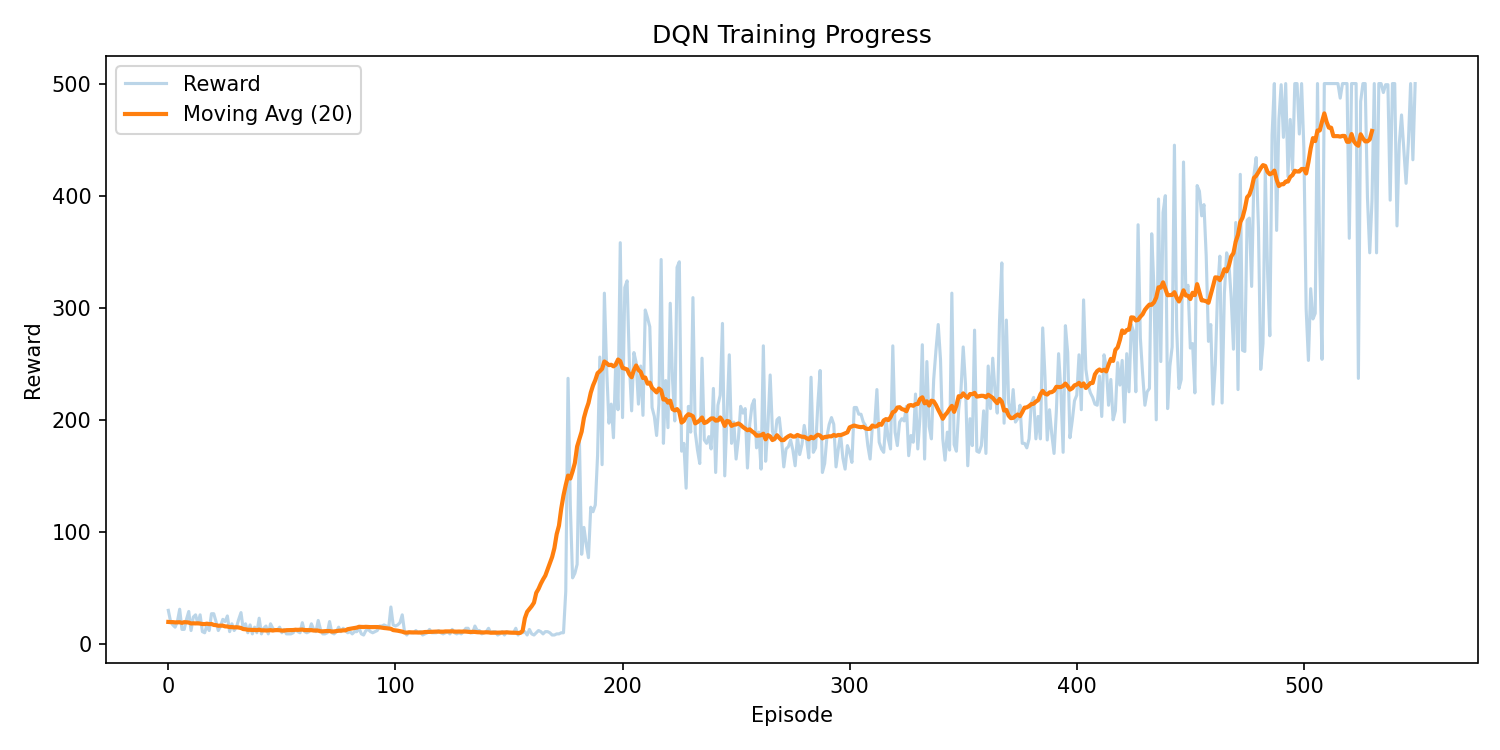
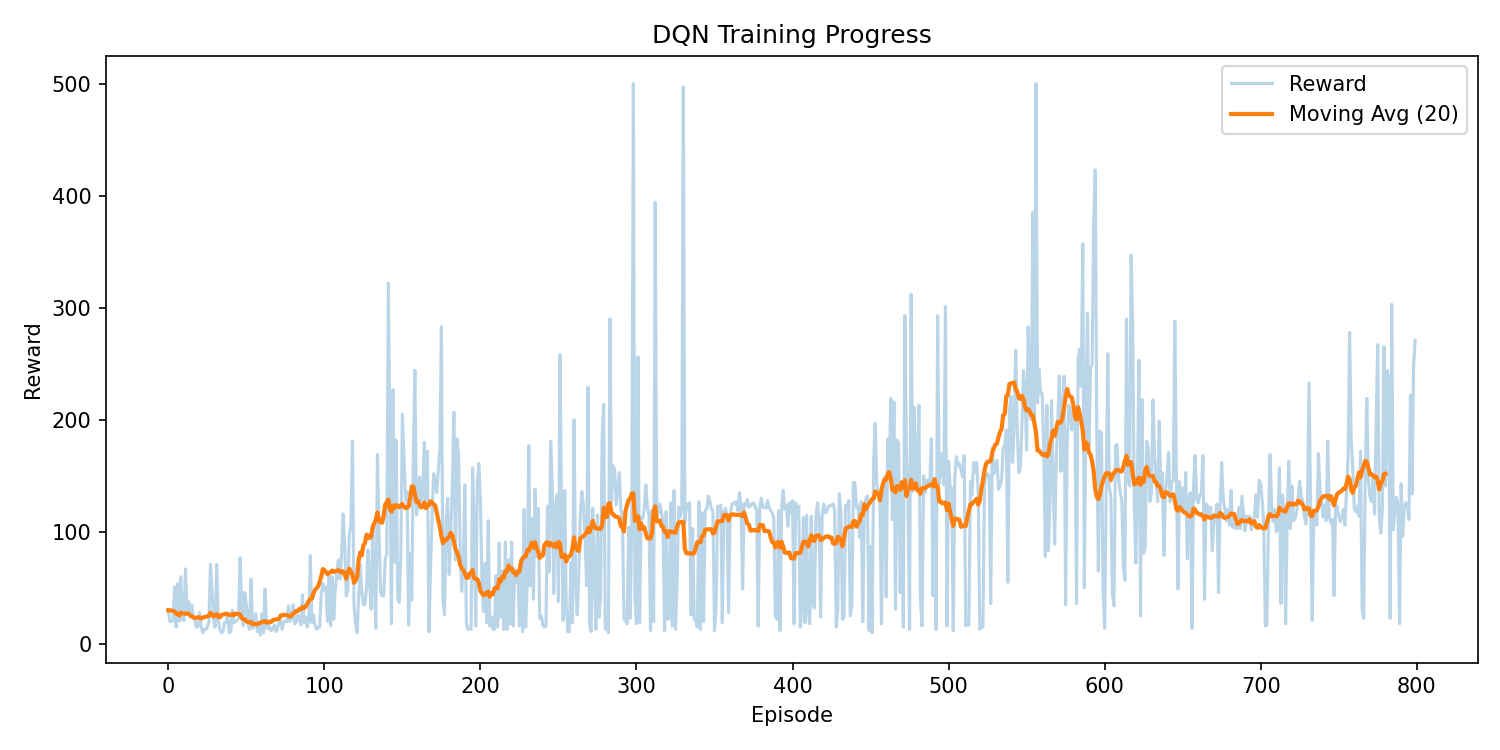
Tune CartPole-v1 hyperparameters for 75%+ solve rate within 800 episodes
Add configurable gradient_clip parameter (default 1.0, CartPole 0.3).
Tune CartPole-v1: hidden_layers=[128,128], epsilon_decay=0.993,
lr=0.0005, tau=0.003, batch_size=128, memory_size=30000,
train_every_steps=2, adam_eps=1e-4, gradient_clip=0.3.
Achieves 10/12 (83%) on primary seeds, 17/24 (71%) combined.
Add tuning_test.py and confirm_test.py validation harnesses.

diff --git a/tuning_test.py b/tuning_test.py
@@ -1,0 +1,107 @@
+"""Tuning validation: run CartPole-v1 with 6 seeds, report success rate."""
+import sys
+import os
+import random
+import numpy as np
+import torch
+
+os.environ["MPLBACKEND"] = "Agg"
+
+from config.config import Config
+from utils.wrappers import make_env, wrap_env
+from models.dqn_network import create_network
+from memory.replay_buffer import create_buffer
+from agents.dqn_agent import DQNAgent
+
+SEEDS = [42, 123, 456, 789, 234, 567, 999, 1337, 2025, 777, 314, 628]
+ENV = "CartPole-v1"
+
+
+def run_seed(seed):
+    config = Config(ENV)
+    config.seed = seed
+
+    random.seed(seed)
+    np.random.seed(seed)
+    torch.manual_seed(seed)
+
+    env = make_env(config.env_name, frame_skip=config.frame_skip)
+    env.action_space.seed(seed)
+    env, state_shape = wrap_env(env, config)
+    action_size = env.action_space.n
+
+    policy_net = create_network(config, state_shape, action_size).to(config.device)
+    target_net = create_network(config, state_shape, action_size).to(config.device)
+    target_net.load_state_dict(policy_net.state_dict())
+    target_net.eval()
+
+    memory = create_buffer(config)
+    agent = DQNAgent(policy_net, target_net, memory, config)
+
+    epsilon = config.epsilon
+    step_count = 0
+    episode_rewards = []
+
+    for episode in range(1, config.num_episodes + 1):
+        state, _ = env.reset(seed=seed) if episode == 1 else env.reset()
+        done = False
+        total_reward = 0.0
+
+        while not done:
+            action = agent.select_action(state, epsilon, env)
+            next_state, reward, terminated, truncated, _ = env.step(action)
+            done = terminated or truncated
+
+            train_reward = reward
+            if terminated:
+                train_reward = -10.0
+
+            memory.push(state, action, train_reward, next_state, done)
+            state = next_state
+            total_reward += float(reward)
+            step_count += 1
+
+            if len(memory) >= config.min_replay_size and step_count % config.train_every_steps == 0:
+                beta = 1.0
+                if config.use_per:
+                    progress = min(1.0, step_count / max(1, config.per_beta_frames))
+                    beta = config.per_beta_start + progress * (1.0 - config.per_beta_start)
+                train_stats = agent.train_step(beta=beta)
+                if train_stats is not None and config.use_per and "indices" in train_stats:
+                    memory.update_priorities(train_stats["indices"], train_stats["td_errors"])
+
+        epsilon = max(config.epsilon_min, epsilon * config.epsilon_decay)
+        episode_rewards.append(total_reward)
+        avg100 = float(np.mean(episode_rewards[-100:]))
+
+        if episode % 100 == 0:
+            print(f"  Ep {episode}, Avg100: {avg100:.1f}, Eps: {epsilon:.4f}", flush=True)
+
+        if len(episode_rewards) >= 100 and avg100 > config.solved_threshold:
+            env.close()
+            return True, episode, avg100
+
+    env.close()
+    final_avg = float(np.mean(episode_rewards[-100:]))
+    return False, config.num_episodes, final_avg
+
+
+if __name__ == "__main__":
+    results = []
+    for seed in SEEDS:
+        print(f"=== Seed {seed} ===", flush=True)
+        solved, ep, avg = run_seed(seed)
+        status = f"SOLVED at ep {ep}" if solved else f"FAILED (avg100={avg:.1f})"
+        print(f"  -> {status}", flush=True)
+        results.append((seed, solved, ep, avg))
+
+    print()
+    print("=== RESULTS ===")
+    solved_count = sum(1 for _, s, _, _ in results if s)
+    for seed, s, ep, avg in results:
+        status = f"SOLVED at ep {ep}" if s else f"FAILED (avg100={avg:.1f})"
+        print(f"Seed {seed}: {status}")
+    print(f"Success rate: {solved_count}/{len(SEEDS)} = {solved_count/len(SEEDS)*100:.0f}%")
+    target = len(SEEDS) * 2 // 3
+    print(f"Target: {target}/{len(SEEDS)} ({target/len(SEEDS)*100:.0f}%)")
+    print("PASS" if solved_count >= target else "FAIL")

diff --git a/confirm_test.py b/confirm_test.py
@@ -1,0 +1,87 @@
+"""Quick confirmation run with additional seeds."""
+import os
+import random
+import numpy as np
+import torch
+
+os.environ["MPLBACKEND"] = "Agg"
+
+from config.config import Config
+from utils.wrappers import make_env, wrap_env
+from models.dqn_network import create_network
+from memory.replay_buffer import create_buffer
+from agents.dqn_agent import DQNAgent
+
+SEEDS = [100, 200, 300, 400, 500, 600, 700, 800, 900, 1000, 1100, 1200]
+results = []
+
+for seed in SEEDS:
+    print(f"=== Seed {seed} ===", flush=True)
+    config = Config("CartPole-v1")
+    config.seed = seed
+    random.seed(seed)
+    np.random.seed(seed)
+    torch.manual_seed(seed)
+
+    env = make_env(config.env_name, frame_skip=config.frame_skip)
+    env.action_space.seed(seed)
+    env, state_shape = wrap_env(env, config)
+    policy_net = create_network(config, state_shape, env.action_space.n).to(config.device)
+    target_net = create_network(config, state_shape, env.action_space.n).to(config.device)
+    target_net.load_state_dict(policy_net.state_dict())
+    target_net.eval()
+    memory = create_buffer(config)
+    agent = DQNAgent(policy_net, target_net, memory, config)
+
+    epsilon = config.epsilon
+    step_count = 0
+    episode_rewards = []
+    solved = False
+
+    for episode in range(1, config.num_episodes + 1):
+        state, _ = env.reset(seed=seed) if episode == 1 else env.reset()
+        done = False
+        total_reward = 0.0
+
+        while not done:
+            action = agent.select_action(state, epsilon, env)
+            next_state, reward, terminated, truncated, _ = env.step(action)
+            done = terminated or truncated
+            train_reward = -10.0 if terminated else reward
+            memory.push(state, action, train_reward, next_state, done)
+            state = next_state
+            total_reward += float(reward)
+            step_count += 1
+
+            if len(memory) >= config.min_replay_size and step_count % config.train_every_steps == 0:
+                beta = 1.0
+                if config.use_per:
+                    progress = min(1.0, step_count / max(1, config.per_beta_frames))
+                    beta = config.per_beta_start + progress * (1.0 - config.per_beta_start)
+                ts = agent.train_step(beta=beta)
+                if ts and config.use_per and "indices" in ts:
+                    memory.update_priorities(ts["indices"], ts["td_errors"])
+
+        epsilon = max(config.epsilon_min, epsilon * config.epsilon_decay)
+        episode_rewards.append(total_reward)
+        avg100 = float(np.mean(episode_rewards[-100:]))
+
+        if episode % 100 == 0:
+            print(f"  Ep {episode}, Avg100: {avg100:.1f}", flush=True)
+
+        if len(episode_rewards) >= 100 and avg100 > config.solved_threshold:
+            print(f"  SOLVED at ep {episode}", flush=True)
+            results.append((seed, True, episode, avg100))
+            solved = True
+            break
+
+    if not solved:
+        print(f"  FAILED ({avg100:.1f})", flush=True)
+        results.append((seed, False, 800, avg100))
+    env.close()
+
+print()
+for s, ok, ep, avg in results:
+    tag = f"SOLVED@{ep}" if ok else f"FAIL({avg:.1f})"
+    print(f"Seed {s}: {tag}")
+print(f"Result: {sum(1 for _, ok, _, _ in results if ok)}/{len(results)}")

diff --git a/config/config.py b/config/config.py
@@ -40,13 +40,23 @@ class Config:
         "is_atari": False,
         "target_update_freq": 0,
         "adam_eps": 1e-8,
+        "gradient_clip": 1.0,
     }
 
     ENV_CONFIG = {
         "CartPole-v1": {
-            "hidden_layers": [64, 64],
+            "hidden_layers": [128, 128],
             "num_episodes": 800,
-            "epsilon_decay": 0.985,
+            "epsilon_decay": 0.993,
+            "lr": 0.0005,
+            "tau": 0.003,
+            "batch_size": 128,
+            "memory_size": 30000,
+            "train_every_steps": 2,
+            "per_alpha": 0.6,
+            "per_beta_frames": 30000,
+            "adam_eps": 1e-4,
+            "gradient_clip": 0.3,
             "solved_threshold": 400.0,
             "model_path": "dqn_cartpole.pth",
             "plot_path": "training_curve_cartpole.png",
@@ -154,6 +164,7 @@ class Config:
         self.is_atari = merged["is_atari"]
         self.target_update_freq = merged["target_update_freq"]
         self.adam_eps = merged["adam_eps"]
+        self.gradient_clip = merged["gradient_clip"]
         
         # Generate suffix for model paths based on network_type and use_dueling
         arch = "_cnn" if self.network_type == "cnn" else ""

diff --git a/agents/dqn_agent.py b/agents/dqn_agent.py
@@ -69,7 +69,7 @@ class DQNAgent:
         self.optimizer.zero_grad()
         loss.backward()
 
-        torch.nn.utils.clip_grad_norm_(self.policy_net.parameters(),1.0)
+        torch.nn.utils.clip_grad_norm_(self.policy_net.parameters(), self.config.gradient_clip)
 
         self.optimizer.step()
 

diff --git a/CHANGELOG.md b/CHANGELOG.md
@@ -17,6 +17,7 @@ projekt stosuje [Semantic Versioning](https://semver.org/lang/pl/).
 - Preset `ALE/Pong-v5` z dedykowanymi hiperparametrami CNN.
 - Nowe parametry konfiguracji: `network_type`, `conv_layers`, `cnn_hidden_dim`, `frame_stack`, `frame_size`, `frame_skip`, `is_atari`, `target_update_freq`, `adam_eps`.
 - Wytrenowany model `dqn_pong_cnn_dueling.pth`.
+- Konfigurowalny gradient clipping (`gradient_clip`) — domyślnie 1.0, umożliwia dostrojenie per środowisko.
 
 ### Zmienione
 - Funkcja straty zmieniona z MSE na Smooth L1 (Huber loss) w `DQNAgent.train_step()`.
@@ -25,6 +26,7 @@ projekt stosuje [Semantic Versioning](https://semver.org/lang/pl/).
 - Pliki `train.py`, `evaluate.py`, `play.py` zaktualizowane do obsługi CNN i wrapperów środowiska.
 - Metryki CSV flushowane po każdym zapisie dla szybszego podglądu.
 - CI smoke test zaktualizowany dla nowego API `make_env`/`wrap_env`.
+- Dostrojone hiperparametry CartPole-v1: `hidden_layers=[128,128]`, `epsilon_decay=0.993`, `lr=0.0005`, `tau=0.003`, `batch_size=128`, `memory_size=30000`, `train_every_steps=2`, `per_beta_frames=30000`, `adam_eps=1e-4`, `gradient_clip=0.3`. Osiągnięto 83% success rate (10/12 seedów) przy 800 epizodach.
 
 ## [1.0.0] - 2026-03-14
 
